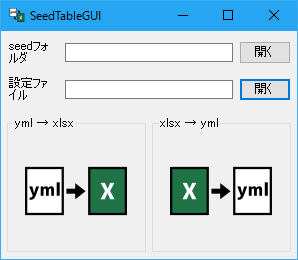
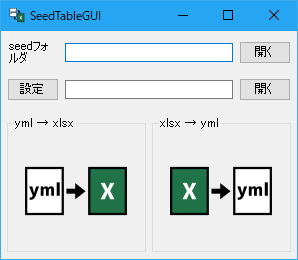
readme

diff --git a/Readme.md b/Readme.md
@@ -81,6 +81,10 @@ subdivide:
 engine: EPPlus
 ```
 
+GUIの設定ダイアログは以下のようなものです。
+
+![設定ダイアログ](seedtable-gui-settings.png)
+
 この設定をGUIで編集させたくないという場合は、`seedtable-gui.exe`と同じフォルダに`options.readonly`というファイル(中身は空で大丈夫)をおいて下さい。
 
 設定の詳細は後のOptionsの節を参照下さい。
